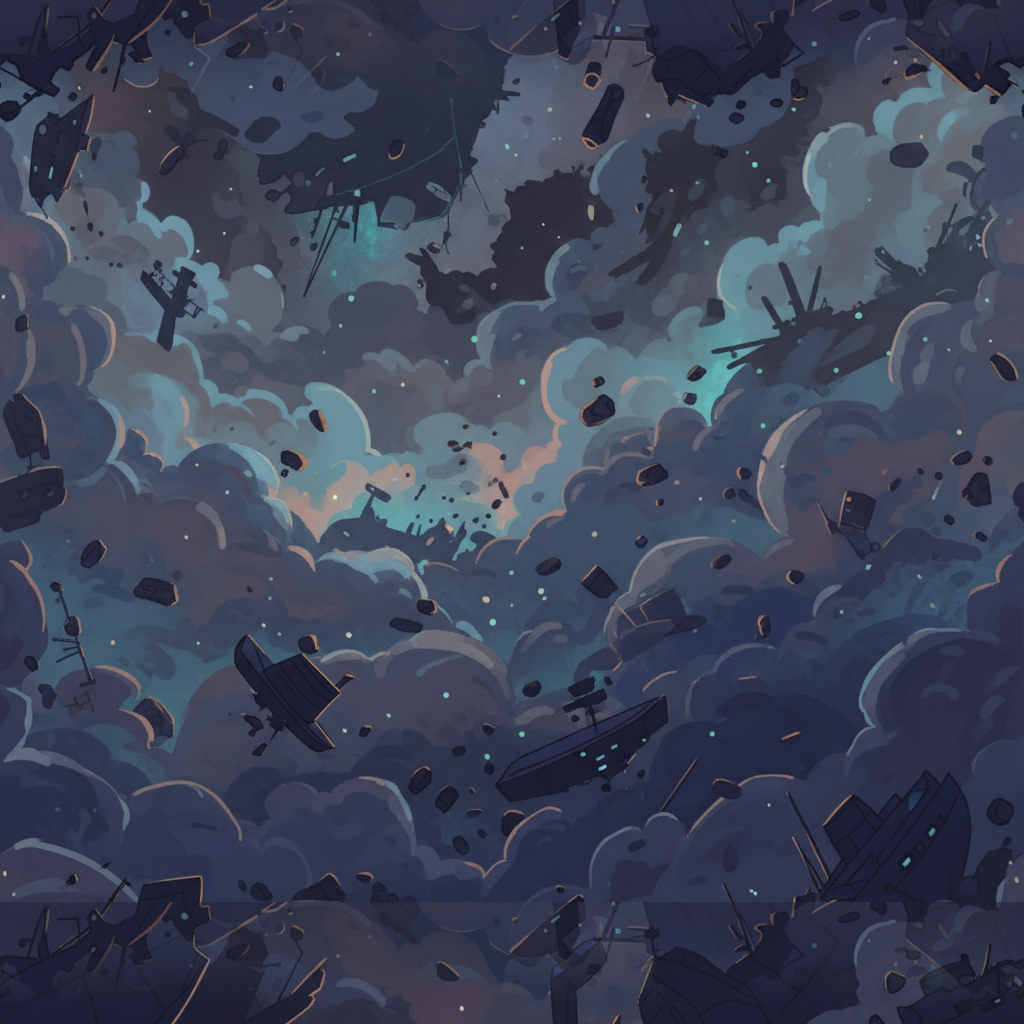
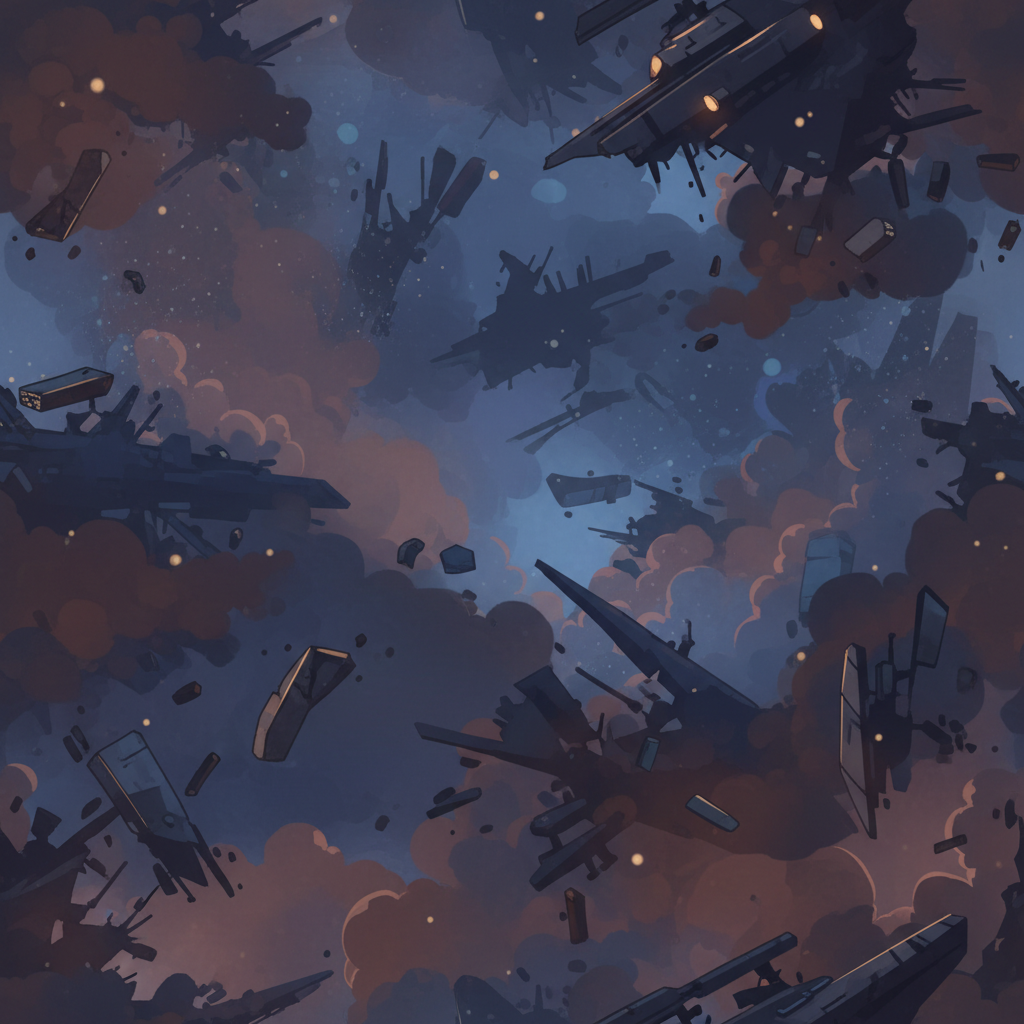
Remove background tile blur and reverse scroll

diff --git a/main.js b/main.js
@@ -4494,9 +4494,10 @@ function drawBackground(width, height) {
     const img = background.img;
     const scale = width / img.naturalWidth;
     const drawHeight = img.naturalHeight * scale;
-    const offset = backgroundScroll % drawHeight;
-    ctx.drawImage(img, 0, -offset, width, drawHeight);
-    ctx.drawImage(img, 0, drawHeight - offset, width, drawHeight);
+    // Positive scroll moves the background down (top -> bottom), matching starfield motion.
+    const offset = ((backgroundScroll % drawHeight) + drawHeight) % drawHeight;
+    ctx.drawImage(img, 0, offset - drawHeight, width, drawHeight);
+    ctx.drawImage(img, 0, offset, width, drawHeight);
   }
 
   ctx.save();

diff --git a/scripts/gemini_bg_gen.py b/scripts/gemini_bg_gen.py
@@ -191,7 +191,7 @@ def generate_one(key: str, prompt: str, out_dir: pathlib.Path, model: str) -> pa
         raise RuntimeError("No image data found in response.")
     out_path.write_bytes(img)
 
-    # Ensure RGB/opaque and tileable.
+    # Ensure RGB/opaque. (Tile-fix is optional; many generations are seamless already.)
     try:
         from PIL import Image
 
@@ -202,8 +202,6 @@ def generate_one(key: str, prompt: str, out_dir: pathlib.Path, model: str) -> pa
     except Exception:
         # If PIL isn't available, keep raw output.
         pass
-
-    make_vertical_tileable(out_path, band_frac=0.12)
     return out_path
 
 
@@ -213,6 +211,17 @@ def main() -> int:
     ap.add_argument("--model", default=DEFAULT_MODEL, help=f"Gemini model (default: {DEFAULT_MODEL})")
     ap.add_argument("--name", default=None, help="Generate a single background key.")
     ap.add_argument("--prompt", default=None, help="Prompt for single background generation.")
+    ap.add_argument(
+        "--tile-fix",
+        action="store_true",
+        help="Apply a gentle top/bottom edge blend to enforce vertical tiling (disabled by default).",
+    )
+    ap.add_argument(
+        "--tile-band-frac",
+        type=float,
+        default=0.12,
+        help="Band size used for --tile-fix blending (fraction of image height).",
+    )
     args = ap.parse_args()
 
     out_dir = pathlib.Path(args.out_dir)
@@ -220,6 +229,8 @@ def main() -> int:
     if args.name and args.prompt:
         try:
             out = generate_one(args.name, args.prompt, out_dir, args.model)
+            if args.tile_fix:
+                make_vertical_tileable(out, band_frac=args.tile_band_frac)
             print(f"Wrote {out}")
             return 0
         except Exception as e:
@@ -231,6 +242,8 @@ def main() -> int:
     for key, prompt in DEFAULT_BG_SET:
         try:
             out = generate_one(key, prompt, out_dir, args.model)
+            if args.tile_fix:
+                make_vertical_tileable(out, band_frac=args.tile_band_frac)
             print(f"Wrote {out}")
         except Exception as e:
             failures += 1
@@ -241,4 +254,3 @@ def main() -> int:
 
 if __name__ == "__main__":
   raise SystemExit(main())
-
